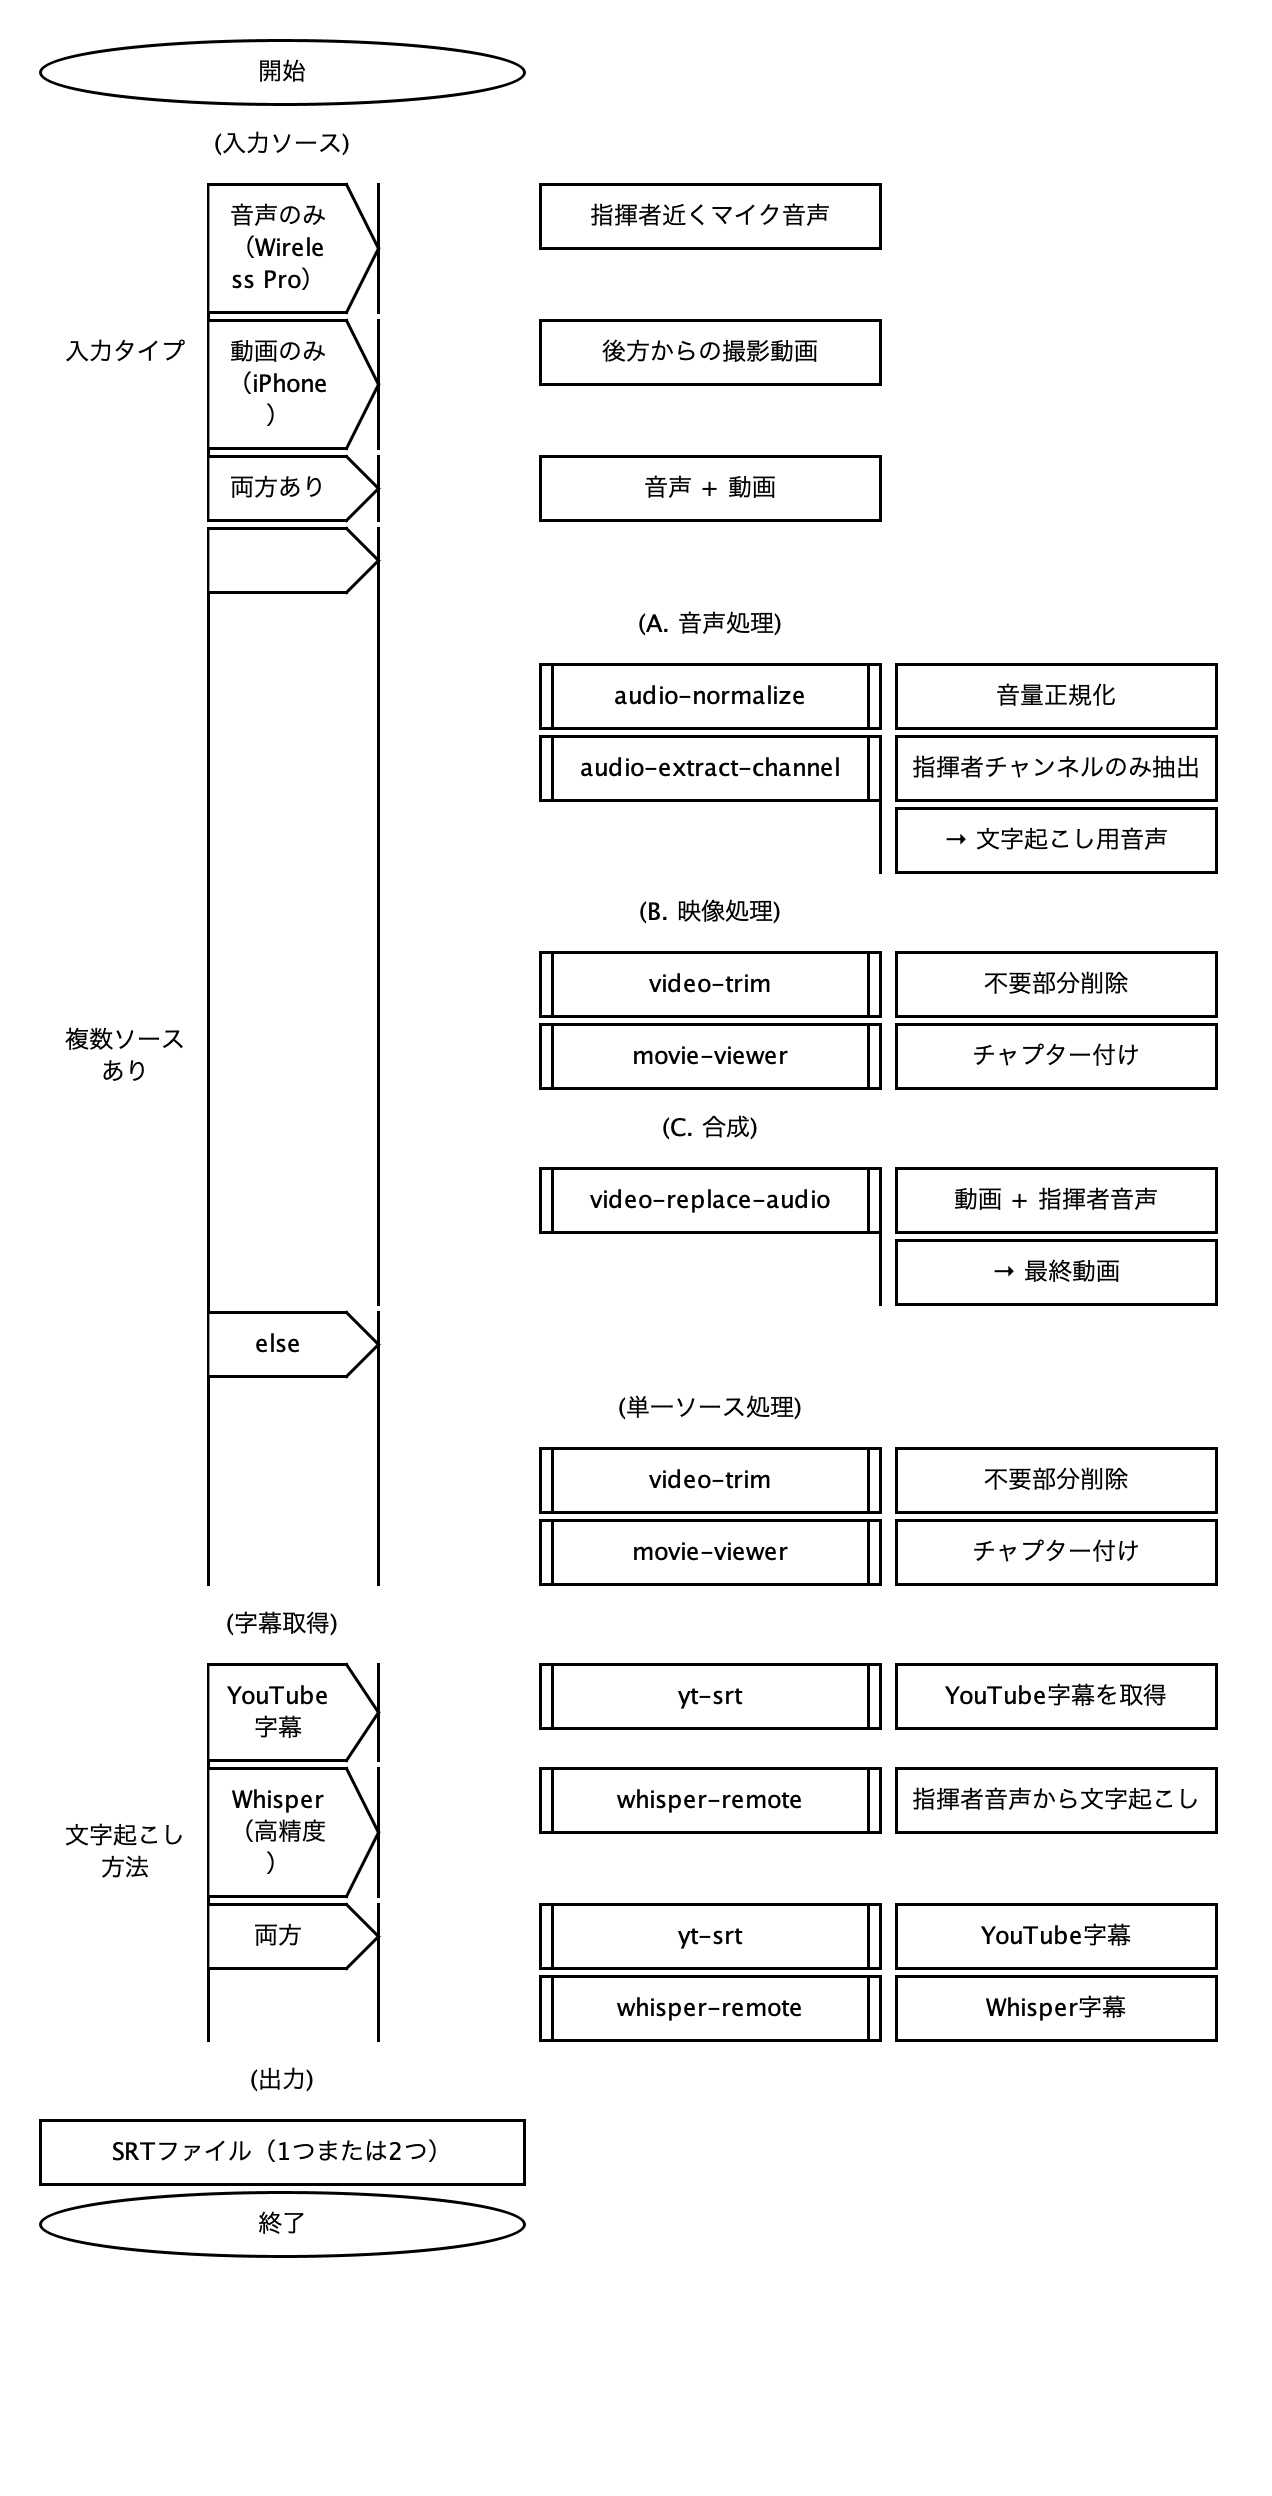
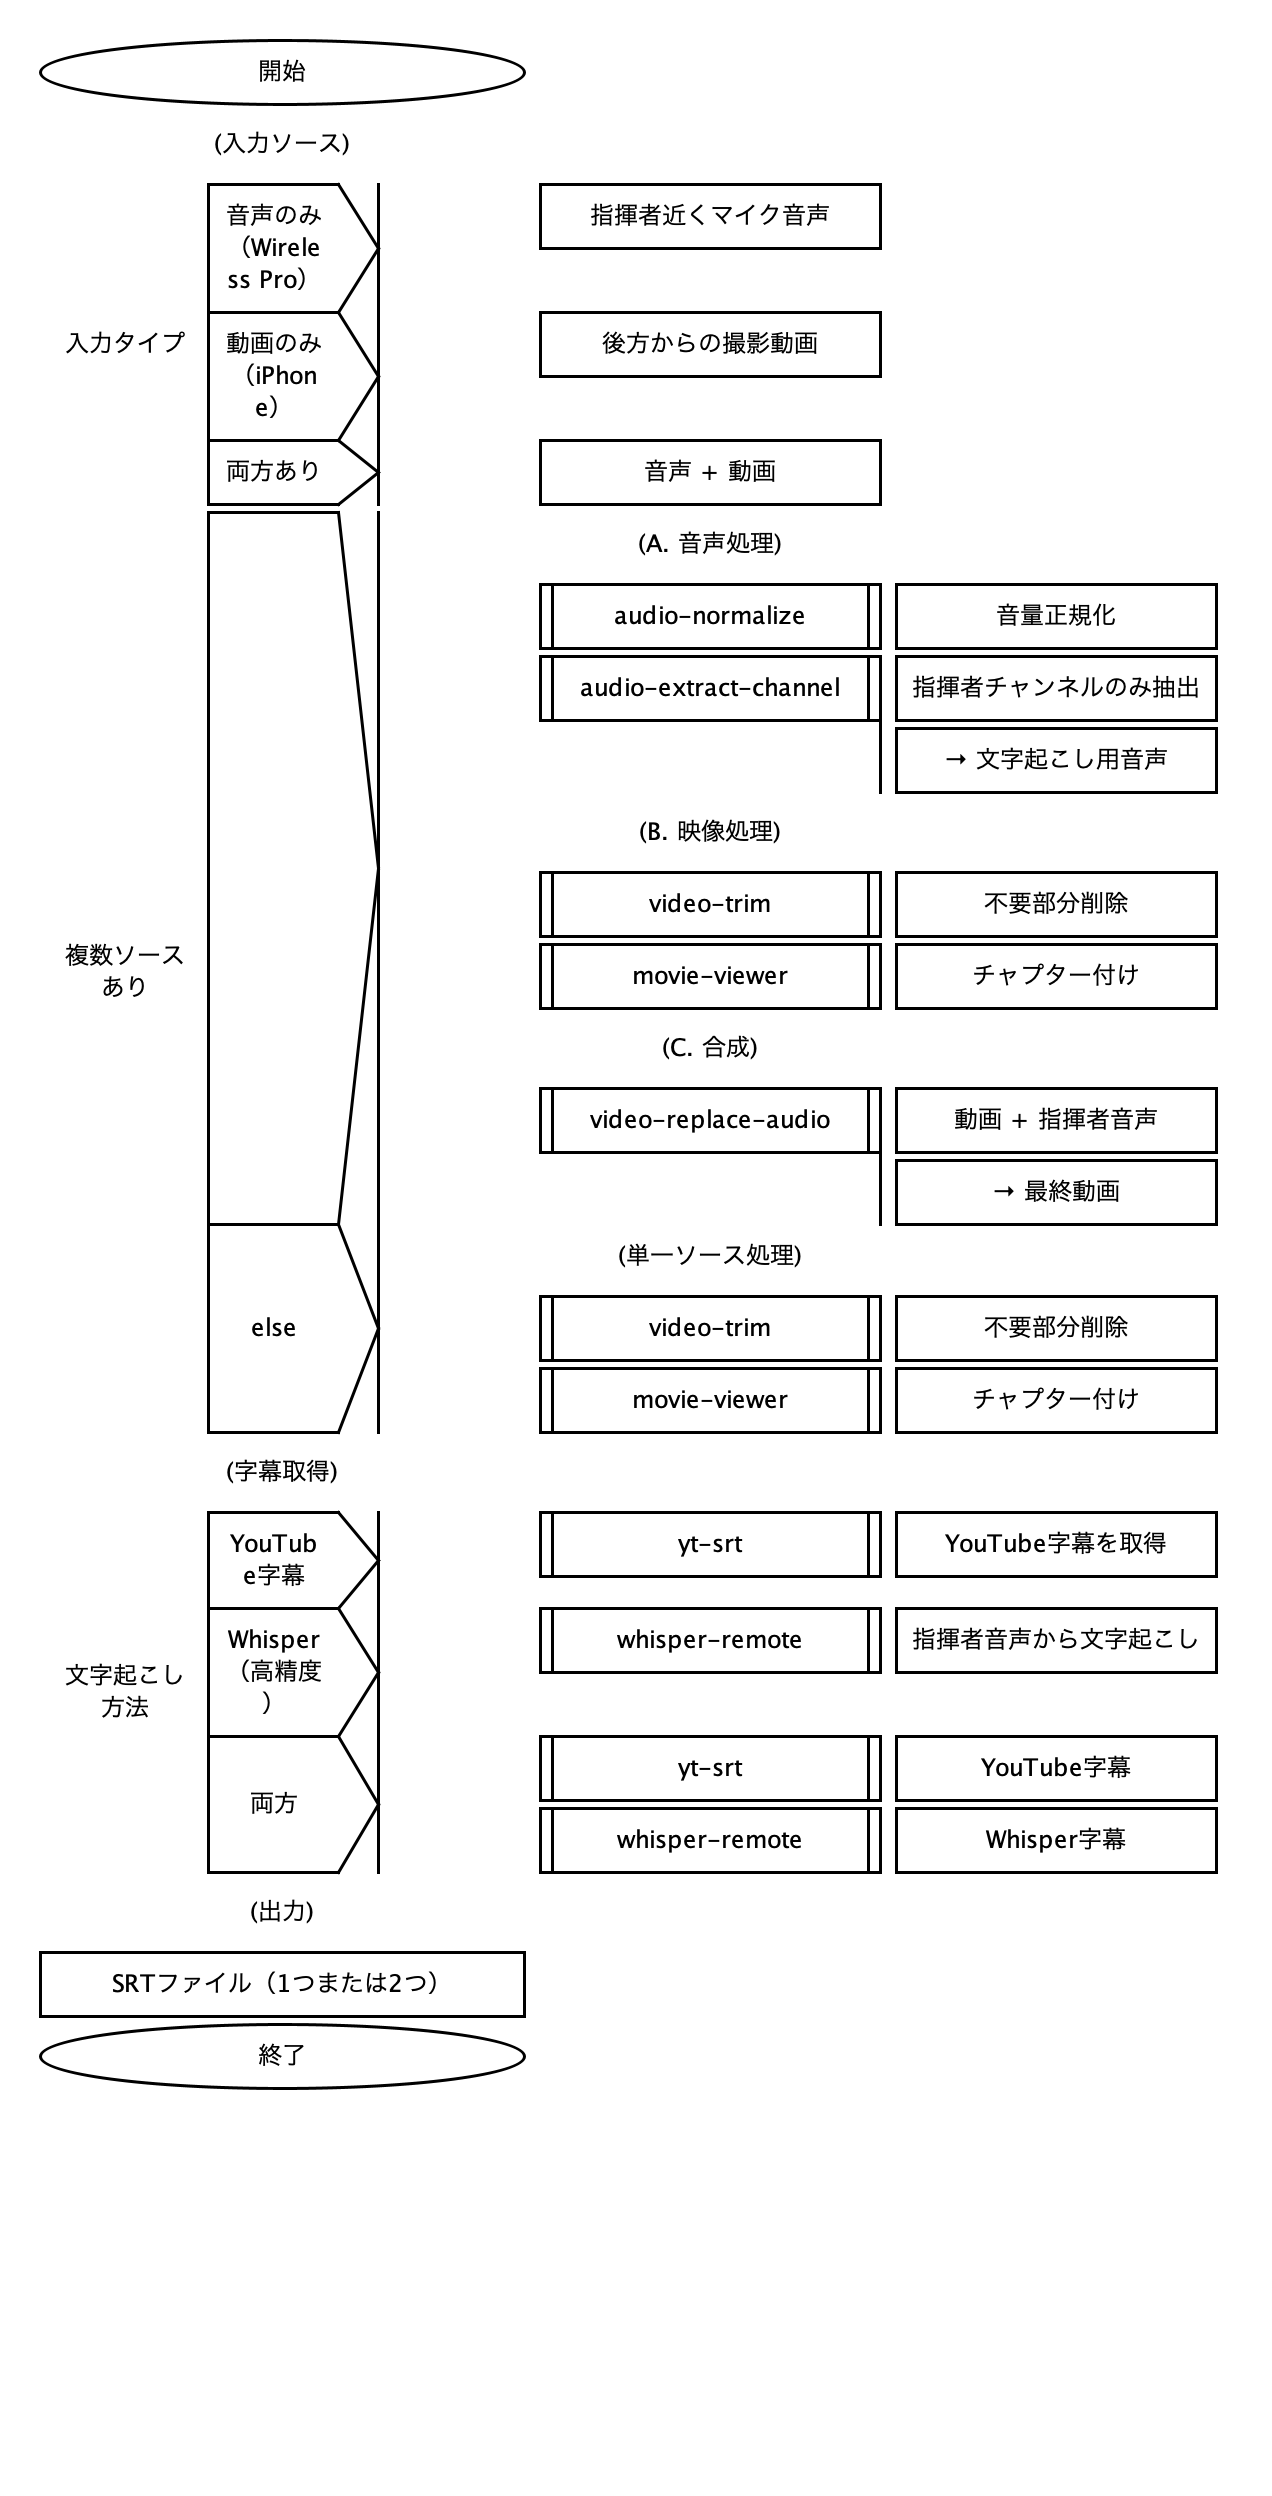
Improve Switch/If rendering: vertically connected pennants with separators
- Switch: cases stacked vertically with shared horizontal separators
- If: then/else branches connected without gaps
- Arrow shapes (chevrons) at right side only
- Case labels as plain text without box borders
- Matches original PADtools visual style more closely

🤖 Generated with [Claude Code](https://claude.com/claude-code)

diff --git a/tools/PadAlignedRenderer.java b/tools/PadAlignedRenderer.java
@@ -438,72 +438,67 @@ public class PadAlignedRenderer {
         LinkedHashMap<String, NodeBase> cases = node.getCases();
 
         double conditionWidth = width * 0.35;
-        double arrowWidth = 16;  // Width for arrow part
-        double pennantWidth = conditionWidth;  // Pennant takes the condition column width
-        double pennantX = x + conditionWidth;  // Pennants start after condition text
+        double arrowWidth = 20;  // Width for arrow part
+        double pennantX = x + conditionWidth;  // Pennant area starts after condition text
+        double arrowX = pennantX + conditionWidth - arrowWidth;  // Arrow starts here
 
-        // Calculate total height with wrapped text
+        // Calculate total height with wrapped text (no gaps between cases)
         double totalHeight = 0;
         for (Map.Entry<String, NodeBase> entry : cases.entrySet()) {
             String caseLabel = entry.getKey();
             NodeBase caseChild = entry.getValue();
-            double caseBoxHeight = getTextBoxHeight(caseLabel, pennantWidth - arrowWidth);
+            double caseBoxHeight = getTextBoxHeight(caseLabel, arrowX - pennantX);
             double childHeight = calculateHeight(caseChild);
-            totalHeight += Math.max(caseBoxHeight, childHeight) + ROW_GAP;
+            totalHeight += Math.max(caseBoxHeight, childHeight);
         }
-        totalHeight -= ROW_GAP;
 
         // Draw condition text on far left (original PADtools style)
         drawCenteredText(node.getText(), x, y, conditionWidth, totalHeight, TEXT_COLOR, MAIN_FONT);
 
-        // Draw vertical line at pennant left edge (connects all pennants)
+        // Draw vertical line at pennant left edge (connects all cases)
         g2d.setColor(STROKE_COLOR);
         g2d.setStroke(new BasicStroke(1.5f));
         g2d.drawLine((int)pennantX, (int)y, (int)pennantX, (int)(y + totalHeight));
 
+        // Draw top border line
+        g2d.drawLine((int)pennantX, (int)y, (int)arrowX, (int)y);
+
         // Draw cases
         double caseY = y;
+        int caseIndex = 0;
+        int totalCases = cases.size();
 
         for (Map.Entry<String, NodeBase> entry : cases.entrySet()) {
             String caseLabel = entry.getKey();
             NodeBase caseChild = entry.getValue();
-            double caseBoxHeight = getTextBoxHeight(caseLabel, pennantWidth - arrowWidth);
+            double caseBoxHeight = getTextBoxHeight(caseLabel, arrowX - pennantX);
             double childHeight = calculateHeight(caseChild);
             double rowHeight = Math.max(caseBoxHeight, childHeight);
 
-            // Draw pennant/flag shape (original PADtools style: flat left on vertical line, pointed right)
-            Path2D pennant = new Path2D.Double();
-            pennant.moveTo(pennantX, caseY);
-            pennant.lineTo(pennantX + pennantWidth - arrowWidth, caseY);
-            pennant.lineTo(pennantX + pennantWidth, caseY + caseBoxHeight / 2);
-            pennant.lineTo(pennantX + pennantWidth - arrowWidth, caseY + caseBoxHeight);
-            pennant.lineTo(pennantX, caseY + caseBoxHeight);
-            // Don't close path - left edge is drawn as the vertical line
-
-            g2d.setColor(FILL_COLOR);
-            g2d.fill(pennant);
+            // Draw arrow shape (chevron pointing right) - original PADtools style
             g2d.setColor(STROKE_COLOR);
             g2d.setStroke(new BasicStroke(1.5f));
-            // Draw only top, right arrow, and bottom edges (not left - that's the vertical line)
-            g2d.draw(new Line2D.Double(pennantX, caseY, pennantX + pennantWidth - arrowWidth, caseY));
-            g2d.draw(new Line2D.Double(pennantX + pennantWidth - arrowWidth, caseY, pennantX + pennantWidth, caseY + caseBoxHeight / 2));
-            g2d.draw(new Line2D.Double(pennantX + pennantWidth, caseY + caseBoxHeight / 2, pennantX + pennantWidth - arrowWidth, caseY + caseBoxHeight));
-            g2d.draw(new Line2D.Double(pennantX + pennantWidth - arrowWidth, caseY + caseBoxHeight, pennantX, caseY + caseBoxHeight));
+            double arrowMidY = caseY + rowHeight / 2;
+            // Top diagonal of arrow
+            g2d.draw(new Line2D.Double(arrowX, caseY, arrowX + arrowWidth, arrowMidY));
+            // Bottom diagonal of arrow
+            g2d.draw(new Line2D.Double(arrowX + arrowWidth, arrowMidY, arrowX, caseY + rowHeight));
 
-            drawCenteredText(caseLabel, pennantX, caseY,
-                            pennantWidth - arrowWidth, caseBoxHeight, TEXT_COLOR, MAIN_FONT);
+            // Draw case label as plain text (no box) - original PADtools style
+            drawCenteredText(caseLabel, pennantX, caseY, arrowX - pennantX, rowHeight, TEXT_COLOR, MAIN_FONT);
 
-            // Draw vertical line connecting to children (at right edge of pennant)
+            // Draw bottom border (separator to next case)
+            g2d.drawLine((int)pennantX, (int)(caseY + rowHeight), (int)arrowX, (int)(caseY + rowHeight));
+
+            // Draw vertical line connecting to children (at arrow tip)
             if (caseChild != null && childHeight > 0) {
-                double lineX = pennantX + pennantWidth;
-                g2d.setColor(STROKE_COLOR);
-                g2d.setStroke(new BasicStroke(1.5f));
+                double lineX = arrowX + arrowWidth;
                 g2d.drawLine((int)lineX, (int)caseY, (int)lineX, (int)(caseY + rowHeight));
-
                 drawNode(caseChild, depth + 1, caseY);
             }
 
-            caseY += rowHeight + ROW_GAP;
+            caseY += rowHeight;
+            caseIndex++;
         }
 
         return y + totalHeight;
@@ -511,89 +506,64 @@ public class PadAlignedRenderer {
 
     private double drawIf(IfNode node, int depth, double x, double y, double width) {
         double thenChildHeight = calculateHeight(node.getTrueNode());
-        double thenHeight = BOX_HEIGHT + thenChildHeight;
+        double thenRowHeight = Math.max(BOX_HEIGHT, thenChildHeight);
         double elseChildHeight = node.getFalseNode() != null ? calculateHeight(node.getFalseNode()) : 0;
-        double elseHeight = node.getFalseNode() != null ? BOX_HEIGHT + elseChildHeight : 0;
-        double totalHeight = thenHeight + elseHeight + (elseHeight > 0 ? ROW_GAP : 0);
+        double elseRowHeight = node.getFalseNode() != null ? Math.max(BOX_HEIGHT, elseChildHeight) : 0;
+        double totalHeight = thenRowHeight + elseRowHeight;
 
         double conditionWidth = width * 0.35;
-        double arrowWidth = 16;
-        double pennantWidth = conditionWidth;  // Pennant takes the condition column width
-        double pennantX = x + conditionWidth;  // Pennants start after condition text
+        double arrowWidth = 20;  // Width for arrow part
+        double pennantX = x + conditionWidth;  // Pennant area starts after condition text
+        double arrowX = pennantX + conditionWidth - arrowWidth;  // Arrow starts here
 
         // Draw condition text on far left (original PADtools style)
         drawCenteredText(node.getText(), x, y, conditionWidth, totalHeight, TEXT_COLOR, MAIN_FONT);
 
-        // Draw vertical line at pennant left edge (connects all pennants)
+        // Draw vertical line at pennant left edge (connects all branches)
         g2d.setColor(STROKE_COLOR);
         g2d.setStroke(new BasicStroke(1.5f));
         g2d.drawLine((int)pennantX, (int)y, (int)pennantX, (int)(y + totalHeight));
 
-        // Draw then branch with pennant shape (original PADtools style: flat left on vertical line, pointed right)
-        Path2D thenPennant = new Path2D.Double();
-        thenPennant.moveTo(pennantX, y);
-        thenPennant.lineTo(pennantX + pennantWidth - arrowWidth, y);
-        thenPennant.lineTo(pennantX + pennantWidth, y + BOX_HEIGHT / 2);
-        thenPennant.lineTo(pennantX + pennantWidth - arrowWidth, y + BOX_HEIGHT);
-        thenPennant.lineTo(pennantX, y + BOX_HEIGHT);
+        // Draw top border line
+        g2d.drawLine((int)pennantX, (int)y, (int)arrowX, (int)y);
 
-        g2d.setColor(FILL_COLOR);
-        g2d.fill(thenPennant);
-        g2d.setColor(STROKE_COLOR);
-        g2d.setStroke(new BasicStroke(1.5f));
-        // Draw only top, right arrow, and bottom edges (not left - that's the vertical line)
-        g2d.draw(new Line2D.Double(pennantX, y, pennantX + pennantWidth - arrowWidth, y));
-        g2d.draw(new Line2D.Double(pennantX + pennantWidth - arrowWidth, y, pennantX + pennantWidth, y + BOX_HEIGHT / 2));
-        g2d.draw(new Line2D.Double(pennantX + pennantWidth, y + BOX_HEIGHT / 2, pennantX + pennantWidth - arrowWidth, y + BOX_HEIGHT));
-        g2d.draw(new Line2D.Double(pennantX + pennantWidth - arrowWidth, y + BOX_HEIGHT, pennantX, y + BOX_HEIGHT));
+        // Draw then branch arrow shape (chevron pointing right)
+        double thenMidY = y + thenRowHeight / 2;
+        g2d.draw(new Line2D.Double(arrowX, y, arrowX + arrowWidth, thenMidY));
+        g2d.draw(new Line2D.Double(arrowX + arrowWidth, thenMidY, arrowX, y + thenRowHeight));
 
-        // Draw vertical line connecting to then children (at right edge of pennant)
+        // Draw bottom border of then (separator to else)
+        g2d.drawLine((int)pennantX, (int)(y + thenRowHeight), (int)arrowX, (int)(y + thenRowHeight));
+
+        // Draw vertical line connecting to then children (at arrow tip)
         if (node.getTrueNode() != null && thenChildHeight > 0) {
-            double lineX = pennantX + pennantWidth;
-            g2d.setColor(STROKE_COLOR);
-            g2d.setStroke(new BasicStroke(1.5f));
-            g2d.drawLine((int)lineX, (int)y, (int)lineX, (int)(y + thenHeight));
-        }
-
-        // Draw then child
-        double thenY = y + BOX_HEIGHT;
-        if (node.getTrueNode() != null) {
-            thenY = drawNode(node.getTrueNode(), depth + 1, thenY);
+            double lineX = arrowX + arrowWidth;
+            g2d.drawLine((int)lineX, (int)y, (int)lineX, (int)(y + thenRowHeight));
+            drawNode(node.getTrueNode(), depth + 1, y);
         }
 
         // Draw else branch if present
         if (node.getFalseNode() != null) {
-            double elseY = thenY + ROW_GAP;
+            double elseY = y + thenRowHeight;
 
-            Path2D elsePennant = new Path2D.Double();
-            elsePennant.moveTo(pennantX, elseY);
-            elsePennant.lineTo(pennantX + pennantWidth - arrowWidth, elseY);
-            elsePennant.lineTo(pennantX + pennantWidth, elseY + BOX_HEIGHT / 2);
-            elsePennant.lineTo(pennantX + pennantWidth - arrowWidth, elseY + BOX_HEIGHT);
-            elsePennant.lineTo(pennantX, elseY + BOX_HEIGHT);
+            // Draw else branch arrow shape (chevron pointing right)
+            double elseMidY = elseY + elseRowHeight / 2;
+            g2d.draw(new Line2D.Double(arrowX, elseY, arrowX + arrowWidth, elseMidY));
+            g2d.draw(new Line2D.Double(arrowX + arrowWidth, elseMidY, arrowX, elseY + elseRowHeight));
 
-            g2d.setColor(FILL_COLOR);
-            g2d.fill(elsePennant);
-            g2d.setColor(STROKE_COLOR);
-            g2d.setStroke(new BasicStroke(1.5f));
-            // Draw only top, right arrow, and bottom edges (not left - that's the vertical line)
-            g2d.draw(new Line2D.Double(pennantX, elseY, pennantX + pennantWidth - arrowWidth, elseY));
-            g2d.draw(new Line2D.Double(pennantX + pennantWidth - arrowWidth, elseY, pennantX + pennantWidth, elseY + BOX_HEIGHT / 2));
-            g2d.draw(new Line2D.Double(pennantX + pennantWidth, elseY + BOX_HEIGHT / 2, pennantX + pennantWidth - arrowWidth, elseY + BOX_HEIGHT));
-            g2d.draw(new Line2D.Double(pennantX + pennantWidth - arrowWidth, elseY + BOX_HEIGHT, pennantX, elseY + BOX_HEIGHT));
+            // Draw else label
+            drawCenteredText("else", pennantX, elseY, arrowX - pennantX, elseRowHeight, TEXT_COLOR, MAIN_FONT);
 
-            drawCenteredText("else", pennantX, elseY,
-                            pennantWidth - arrowWidth, BOX_HEIGHT, TEXT_COLOR, MAIN_FONT);
+            // Draw bottom border of else
+            g2d.drawLine((int)pennantX, (int)(elseY + elseRowHeight), (int)arrowX, (int)(elseY + elseRowHeight));
 
-            // Draw vertical line connecting to else children (at right edge of pennant)
+            // Draw vertical line connecting to else children (at arrow tip)
             if (elseChildHeight > 0) {
-                double lineX = pennantX + pennantWidth;
-                g2d.setColor(STROKE_COLOR);
-                g2d.setStroke(new BasicStroke(1.5f));
-                g2d.drawLine((int)lineX, (int)elseY, (int)lineX, (int)(elseY + elseHeight));
+                double lineX = arrowX + arrowWidth;
+                g2d.drawLine((int)lineX, (int)elseY, (int)lineX, (int)(elseY + elseRowHeight));
             }
 
-            drawNode(node.getFalseNode(), depth + 1, elseY + BOX_HEIGHT);
+            drawNode(node.getFalseNode(), depth + 1, elseY);
         }
 
         return y + totalHeight;
